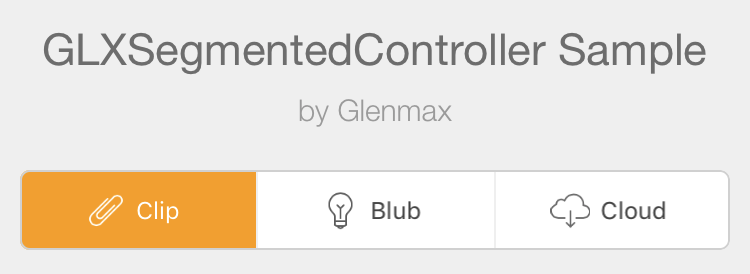
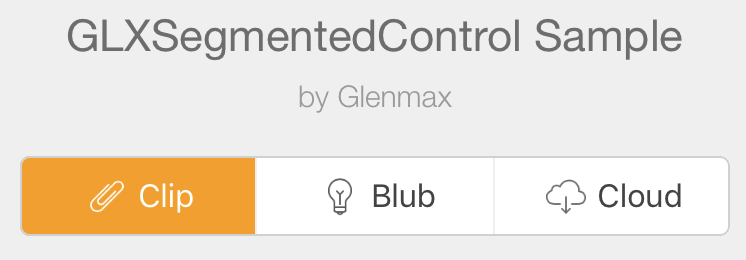
Styling update

diff --git a/GLXSegmentViewController/ViewController.swift b/GLXSegmentViewController/ViewController.swift
@@ -2,7 +2,7 @@
 //  GLXSegmentedControlController
 //
 //  Created by Si Ma on 05/01/2015.
-//  Copyright (c) 2015 Si Ma. All rights reserved.
+//  Copyright (c) 2015 Si Ma and Glenmax Ltd. All rights reserved.
 //
 
 import UIKit
@@ -42,7 +42,7 @@ class ViewController: UIViewController {
         self.segmentView.layer.borderWidth = 1.0
 
         // Add segments
-        self.segmentView.addSegmentWithTitle("Clipppppppppp", onSelectionImage: nil, offSelectionImage: nil)
+        self.segmentView.addSegmentWithTitle("Clip", onSelectionImage: UIImage(named: "clip_light"), offSelectionImage: UIImage(named: "clip"))
         self.segmentView.addSegmentWithTitle("Blub", onSelectionImage: UIImage(named: "bulb_light"), offSelectionImage: UIImage(named: "bulb"))
         self.segmentView.addSegmentWithTitle("Cloud", onSelectionImage: UIImage(named: "cloud_light"), offSelectionImage: UIImage(named: "cloud"))
         

diff --git a/GLXSegmentedControl/GLXSegmentedControl.swift b/GLXSegmentedControl/GLXSegmentedControl.swift
@@ -1,9 +1,9 @@
 //
-//  SMBasicSegmentView.swift
+//  GLXSegmentedControl.swift
 //  GLXSegmentedControlController
 //
 //  Created by Si Ma on 01/10/15.
-//  Copyright © 2015 Si Ma. All rights reserved.
+//  Copyright © 2015 Si Ma and Glenmax Ltd. All rights reserved.
 //
 
 import UIKit
@@ -263,14 +263,17 @@ open class GLXSegmentedControl: UIControl {
                         break
                     }
                 }
+                
                 if trySelected {
                     selectedFont = newSelectedFont
                     selectedFound = true
                 }
+                
                 if tryNonSelected {
                     nonSelectedFont = newNonSelectedFont
                     nonSelectedFound = true
                 }
+                
                 if selectedFound && nonSelectedFound {
                     break
                 }

diff --git a/GLXSegmentedControl/GLXSegment.swift b/GLXSegmentedControl/GLXSegment.swift
@@ -1,8 +1,9 @@
 //
 //  GLXSegment.swift
+//  GLXSegmentedControl
 //
 //  Created by Si MA on 03/01/2015.
-//  Copyright (c) 2015 Si Ma. All rights reserved.
+//  Copyright (c) 2015 Si Ma and Glenmax Ltd. All rights reserved.
 //
 
 import UIKit

diff --git a/GLXSegmentViewControllerTests/GLXSegmentViewControllerTests.swift b/GLXSegmentViewControllerTests/GLXSegmentViewControllerTests.swift
@@ -3,7 +3,7 @@
 //  GLXSegmentedControlTests
 //
 //  Created by si.ma on 05/01/2015.
-//  Copyright (c) 2015 si.ma. All rights reserved.
+//  Copyright (c) 2015 si.ma and Glenmax Ltd. All rights reserved.
 //
 
 import UIKit

diff --git a/GLXSegmentedControl/GLXSegmentAppearance.swift b/GLXSegmentedControl/GLXSegmentAppearance.swift
@@ -3,7 +3,7 @@
 //  GLXSegmentedControl
 //
 //  Created by Si MA on 11/07/2016.
-//  Copyright © 2016 si.ma. All rights reserved.
+//  Copyright © 2016 si.ma and Glenmax Ltd. All rights reserved.
 //
 
 import UIKit

diff --git a/GLXSegmentViewController/AppDelegate.swift b/GLXSegmentViewController/AppDelegate.swift
@@ -1,6 +1,6 @@
 //
 //  Created by Si Ma on 05/01/2015.
-//  Copyright (c) 2015 Si Ma. All rights reserved.
+//  Copyright (c) 2015 Si Ma and Glenmax Ltd. All rights reserved.
 //
 
 import UIKit

diff --git a/GLXSegmentedControl/GLXSegmentedControl.h b/GLXSegmentedControl/GLXSegmentedControl.h
@@ -3,7 +3,7 @@
 //  GLXSegmentedControl
 //
 //  Created by mlaskowski on 22/10/15.
-//  Copyright © 2015 si.ma. All rights reserved.
+//  Copyright © 2015 si.ma and Glenmax Ltd. All rights reserved.
 //
 
 #import <UIKit/UIKit.h>
